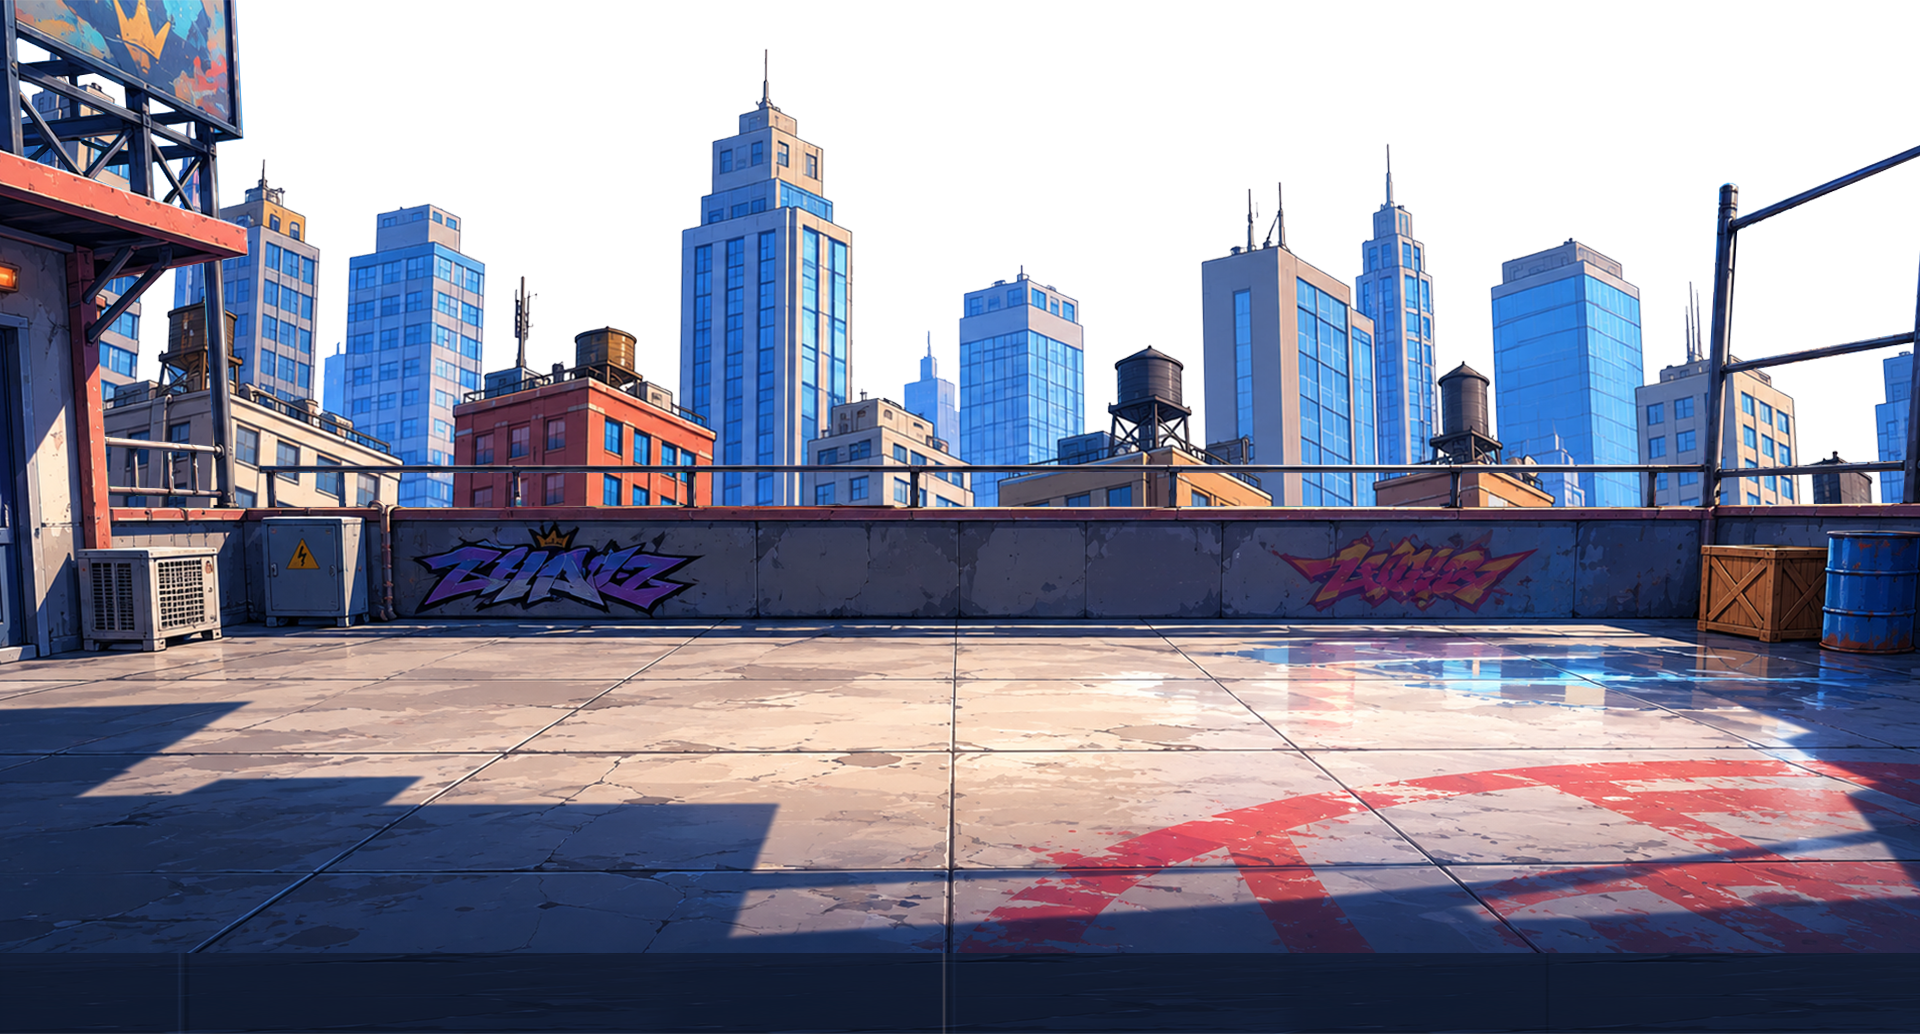
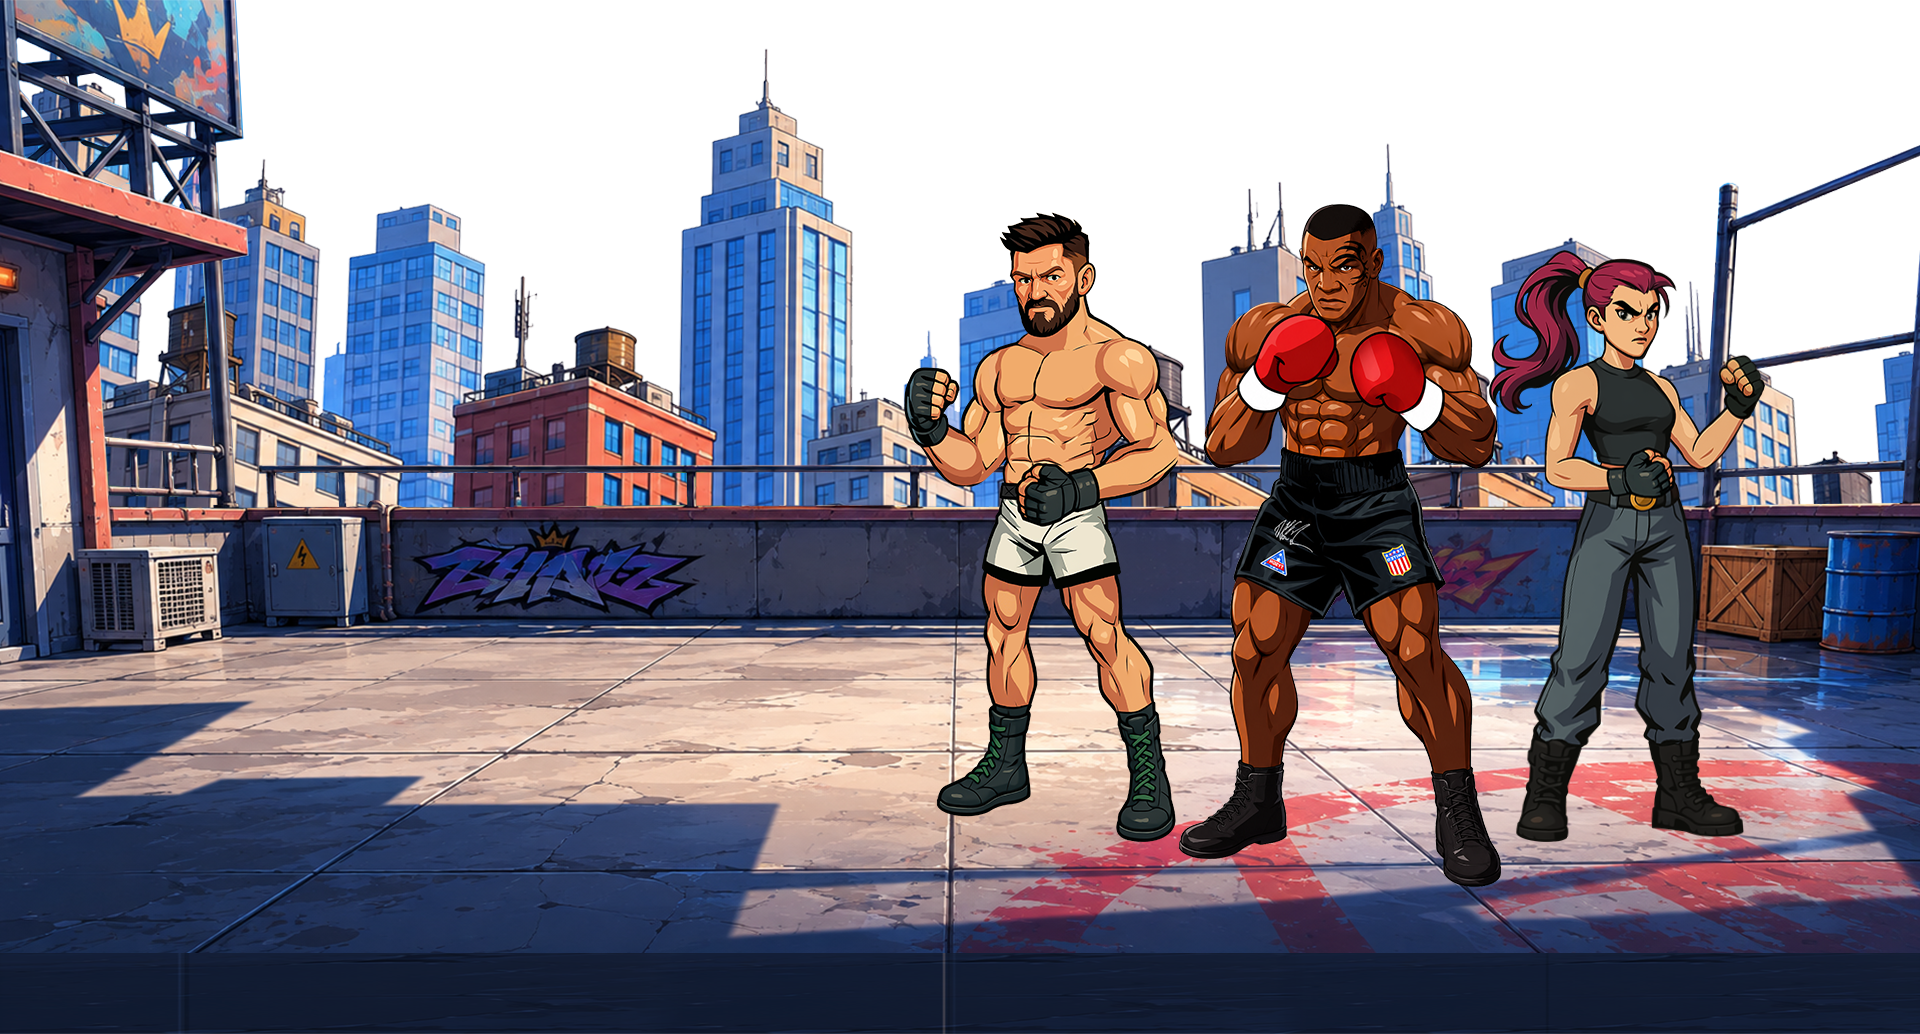
added mike conditional rendering logic

Changed region(s): [[0.4688, 0.1857, 0.9375, 0.8665]]

diff --git a/src/components/FighterSelectSection.tsx b/src/components/FighterSelectSection.tsx
@@ -1,4 +1,4 @@
-import { useState } from 'react'
+import { useEffect, useMemo, useState } from 'react'
 import type { FormEvent, PointerEvent as ReactPointerEvent } from 'react'
 import './FighterSelectSection.css'
 import { assetUrl } from '../utils/assetUrl'
@@ -11,7 +11,11 @@ type Fighter = {
   stats: Array<{ label: string; value: number }>
 }
 
-const fighters: Fighter[] = [
+type FighterSelectSectionProps = {
+  showMike: boolean
+}
+
+const allFighters: Fighter[] = [
   {
     name: 'Akino',
     gifSrc: assetUrl('gifs/akino.gif'),
@@ -154,7 +158,6 @@ const backgroundBlocks = [
   { src: assetUrl('tetris-block-6.png'), modifier: 'block-6' },
   { src: assetUrl('tetris-block-7.png'), modifier: 'block-7' },
 ]
-const defaultFighterIndex = fighters.findIndex((fighter) => fighter.name === 'Mike')
 const swipeThreshold = 45
 const klaviyoSiteId = import.meta.env.VITE_KLAVIYO_SITE_ID
 const klaviyoListId = import.meta.env.VITE_KLAVIYO_LIST_ID
@@ -196,7 +199,12 @@ function storeEmail(email: string) {
   )
 }
 
-function FighterSelectSection() {
+function FighterSelectSection({ showMike }: FighterSelectSectionProps) {
+  const fighters = useMemo(
+    () => allFighters.filter((fighter) => showMike || fighter.name !== 'Mike'),
+    [showMike],
+  )
+  const defaultFighterIndex = fighters.findIndex((fighter) => fighter.name === 'Mike')
   const [activeIndex, setActiveIndex] = useState(
     defaultFighterIndex >= 0 ? defaultFighterIndex : 0,
   )
@@ -207,6 +215,22 @@ function FighterSelectSection() {
   const [isSubmitting, setIsSubmitting] = useState(false)
   const [formMessage, setFormMessage] = useState('')
   const [messageTone, setMessageTone] = useState<'error' | 'success' | 'info'>('info')
+
+  useEffect(() => {
+    const preferredIndex = fighters.findIndex((fighter) => fighter.name === 'Mike')
+
+    setActiveIndex((currentIndex) => {
+      if (fighters.length === 0) {
+        return 0
+      }
+
+      if (currentIndex >= fighters.length) {
+        return preferredIndex >= 0 ? preferredIndex : 0
+      }
+
+      return currentIndex
+    })
+  }, [fighters])
 
   const handlePrevious = () => {
     setActiveIndex((currentIndex) =>

diff --git a/src/components/HeroSection.tsx b/src/components/HeroSection.tsx
@@ -1,29 +1,8 @@
 import { useEffect, useState } from 'react'
 import HeroHeader from './HeroHeader'
 import './HeroSection.css'
-import { assetUrl } from '../utils/assetUrl'
 
 const launchDate = new Date('2026-09-14T00:00:00')
-const heroFighters = [
-  {
-    name: 'Bruce',
-    src: assetUrl('bruce.html'),
-    modifier: 'bruce',
-    title: 'Bruce animation',
-  },
-  {
-    name: 'Mike',
-    src: assetUrl('mike.html'),
-    modifier: 'mike',
-    title: 'Mike animation',
-  },
-  {
-    name: 'Violet',
-    src: assetUrl('violet.html'),
-    modifier: 'violet',
-    title: 'Violet animation',
-  },
-] as const
 
 function getTimeRemaining(targetDate: Date) {
   const now = new Date()
@@ -96,22 +75,6 @@ function HeroSection() {
             <span className="hero-section__cloud-panel" />
             <span className="hero-section__cloud-panel" />
           </div>
-        </div>
-        <div className="hero-section__fighters" aria-hidden="true">
-          {heroFighters.map((fighter) => (
-            <div
-              className={`hero-section__fighter hero-section__fighter--${fighter.modifier}`}
-              key={fighter.name}
-            >
-              <iframe
-                className="hero-section__fighter-frame"
-                src={fighter.src}
-                title={fighter.title}
-                loading="lazy"
-                tabIndex={-1}
-              />
-            </div>
-          ))}
         </div>
         <div className="hero-section__foreground" />
         <div className="hero-section__overlay" />

diff --git a/src/components/GameplaySection.tsx b/src/components/GameplaySection.tsx
@@ -1,11 +1,18 @@
 import './GameplaySection.css'
 import { assetUrl } from '../utils/assetUrl'
 
-const gameplayShots = [
+type GameplaySectionProps = {
+  showMike: boolean
+}
+
+const defaultPowerUnleashedImage = assetUrl('ss-5.png')
+const noMikePowerUnleashedImage = assetUrl('no-mike-power-unleashed.png')
+
+const gameplayShots = (showMike: boolean) => [
   {
     title: 'Power Unleashed',
     caption: 'Match tiles fast to charge brutal face-offs and swing momentum in seconds.',
-    imageSrc: assetUrl('ss-5.png'),
+    imageSrc: showMike ? defaultPowerUnleashedImage : noMikePowerUnleashedImage,
     accent: 'VS Clash',
   },
   {
@@ -28,7 +35,7 @@ const gameplayShots = [
   },
 ]
 
-function GameplaySection() {
+function GameplaySection({ showMike }: GameplaySectionProps) {
   return (
     <section className="gameplay-section">
       <div className="gameplay-section__inner">
@@ -43,7 +50,7 @@ function GameplaySection() {
         </div>
 
         <div className="gameplay-section__layout">
-          {gameplayShots.map((shot) => (
+          {gameplayShots(showMike).map((shot) => (
             <article className="gameplay-section__shot" key={shot.title}>
               <div className="gameplay-section__shot-frame">
                 <img className="gameplay-section__image" src={shot.imageSrc} alt={shot.title} />

diff --git a/src/components/HeroSection.css b/src/components/HeroSection.css
@@ -9,7 +9,6 @@
 .hero-section__background,
 .hero-section__sky,
 .hero-section__clouds,
-.hero-section__fighters,
 .hero-section__foreground,
 .hero-section__overlay {
   position: absolute;
@@ -47,51 +46,6 @@
 .hero-section__foreground {
   background: var(--hero-foreground-image) right bottom / cover no-repeat;
   z-index: 2;
-}
-
-.hero-section__fighters {
-  z-index: 3;
-  pointer-events: none;
-}
-
-.hero-section__fighter {
-  position: absolute;
-  bottom: 7%;
-}
-
-.hero-section__fighter-frame {
-  width: 100%;
-  height: 100%;
-  border: 0;
-  background: transparent;
-  opacity: 0.98;
-}
-
-.hero-section__fighter--bruce {
-  left: 58%;
-  width: min(32vw, 24rem);
-  height: min(48vw, 35rem);
-  transform: translateX(-50%);
-  z-index: 1;
-  opacity: 1;
-}
-
-.hero-section__fighter--mike {
-  left: 68%;
-  right: auto;
-  width: min(32vw, 24rem);
-  height: min(48vw, 35rem);
-  transform: translateX(-50%);
-  z-index: 2;
-  opacity: 1;
-}
-
-.hero-section__fighter--violet {
-  right: 17%;
-  width: min(32vw, 24rem);
-  height: min(48vw, 35rem);
-  z-index: 3;
-  opacity: 1;
 }
 
 .hero-section__overlay {

diff --git a/src/utils/fetchGistConfig.ts b/src/utils/fetchGistConfig.ts
@@ -1,0 +1,32 @@
+const gistUrl = 'https://gist.github.com/Jawad9x/823d91ac3b7c8c09a9dfe6d1bfbb06c3'
+
+function extractGistId(url: string) {
+  const trimmedUrl = url.trim().replace(/\/$/, '')
+  const segments = trimmedUrl.split('/')
+  return segments[segments.length - 1]
+}
+
+export async function fetchGistConfig() {
+  const gistId = extractGistId(gistUrl)
+  const response = await fetch(`https://api.github.com/gists/${gistId}`)
+
+  if (!response.ok) {
+    throw new Error(`Failed to fetch gist config: ${response.status}`)
+  }
+
+  const gist = await response.json()
+  const gistFiles = Object.values(gist.files ?? {}) as Array<{
+    filename?: string
+    content?: string
+  }>
+
+  const configFile =
+    gistFiles.find((file) => file.filename?.endsWith('.json')) ?? gistFiles[0]
+
+  if (!configFile?.content) {
+    throw new Error('No gist config file content found')
+  }
+
+  return JSON.parse(configFile.content)
+}
+

diff --git a/src/App.tsx b/src/App.tsx
@@ -1,7 +1,29 @@
+import { useEffect, useState } from 'react'
 import Home from './screens/Home'
+import { fetchGistConfig } from './utils/fetchGistConfig'
+
+type GistConfig = {
+  showMike?: boolean
+}
 
 function App() {
-  return <Home />
+  const [config, setConfig] = useState<GistConfig>({})
+
+  useEffect(() => {
+    const loadConfig = async () => {
+      try {
+        const gistConfig = await fetchGistConfig()
+        setConfig(gistConfig)
+        console.log('Gist config:', gistConfig)
+      } catch (error) {
+        console.error('Failed to load gist config', error)
+      }
+    }
+
+    void loadConfig()
+  }, [])
+
+  return <Home showMike={config.showMike ?? true} />
 }
 
 export default App

diff --git a/src/screens/Home.tsx b/src/screens/Home.tsx
@@ -3,12 +3,16 @@ import FighterSelectSection from '../components/FighterSelectSection'
 import GameplaySection from '../components/GameplaySection'
 import FeaturesSection from '../components/FeaturesSection'
 
-function Home() {
+type HomeProps = {
+  showMike: boolean
+}
+
+function Home({ showMike }: HomeProps) {
   return (
     <main className="page-shell">
       <HeroSection />
-      <FighterSelectSection />
-      <GameplaySection />
+      <FighterSelectSection showMike={showMike} />
+      <GameplaySection showMike={showMike} />
       <FeaturesSection />
     </main>
   )
